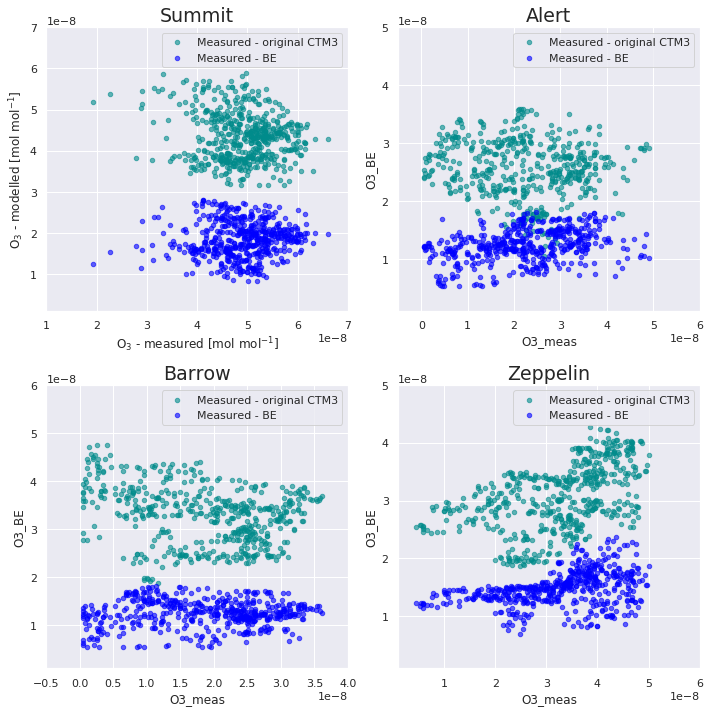
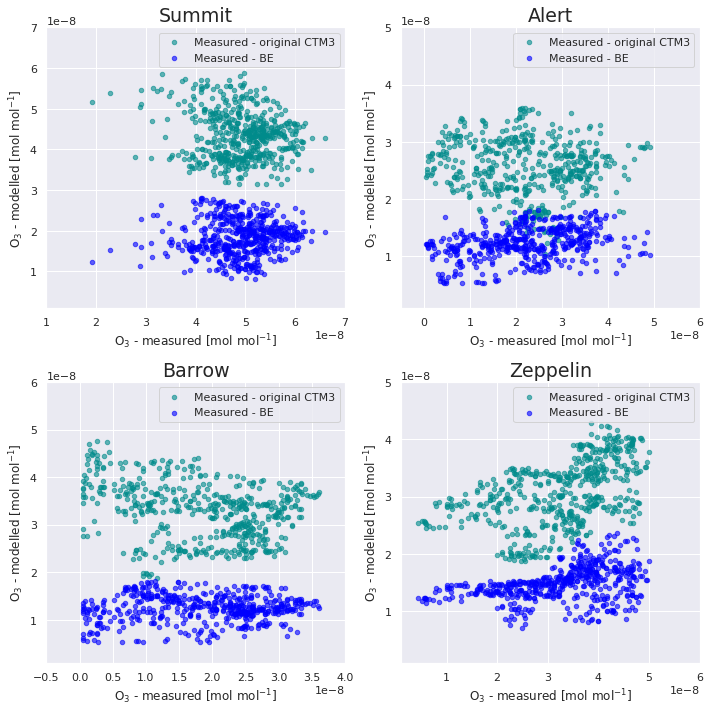
19/5/20

diff --git a/Chapter6_Results/Results.tex b/Chapter6_Results/Results.tex
@@ -293,10 +293,10 @@ Figure \ref{fig:ozone_2001_step4} in the previous section contains the full time
 
 \medskip 
 
-Figure \ref{fig:scatter_FebApr} and \ref{fig:scatter_AprMay} contains scatterplots to visualise agreements between the original CTM3, the BE-branch and the observational data. They are divided into two periods to separate the BE-branch results before stabilization and after, respectively. 
+Figure \ref{fig:joint_FebApr} and \ref{fig:joint_AprMay} contains scatterplots to visualise agreements between the original CTM3, the BE-branch and the observational data. They are divided into two periods to separate the BE-branch results before stabilization and after, respectively. 
 
-\input{Chapter6_Results/images/scatter_feb_apr}
-\input{Chapter6_Results/images/scatter_april_june}
+\input{Chapter6_Results/images/jointplot_FebApr_O3_2001}
+\input{Chapter6_Results/images/jointplot_AprJune_O3_2001}
 
 
 %\section{Comparison with literature}

diff --git a/Chapter6_Results/images/jointplot_FebApr_O3_2001.tex b/Chapter6_Results/images/jointplot_FebApr_O3_2001.tex
@@ -1,0 +1,6 @@
+\begin{figure}[ht]
+    \centering
+    \includegraphics[width = 0.8\linewidth]{Chapter6_Results/images/jointplot_FebApr_O3_2001.png}
+    \caption{Measured $\chem{O_3}$ in ppb vs. modelled results from the and modelled results from the BE-branch (left columns) and original CTM3 (right columns) at the four stations, Summit (SUM), Alert (ALT), Barrow(BRW) and Zeppelin(ZEP) (model results taken from the station's approximate altitude) from the period: February 1st - April 24th}
+    \label{fig:joint_FebApr}
+\end{figure}

diff --git a/Chapter6_Results/images/jointplot_AprJune_O3_2001.tex b/Chapter6_Results/images/jointplot_AprJune_O3_2001.tex
@@ -1,0 +1,6 @@
+\begin{figure}[ht]
+    \centering
+    \includegraphics[width = 0.8\linewidth]{Chapter6_Results/images/jointplot_AprJune_O3_2001.png}
+    \caption{Measured $\chem{O_3}$ in ppb vs. modelled results from the and modelled results from the BE-branch (left columns) and original CTM3 (right columns) at the four stations, Summit (SUM), Alert (ALT), Barrow(BRW) and Zeppelin(ZEP) (model results taken from the station's approximate altitude) from the period: April 25th - June 30th}
+    \label{fig:joint_AprMay}
+\end{figure}
